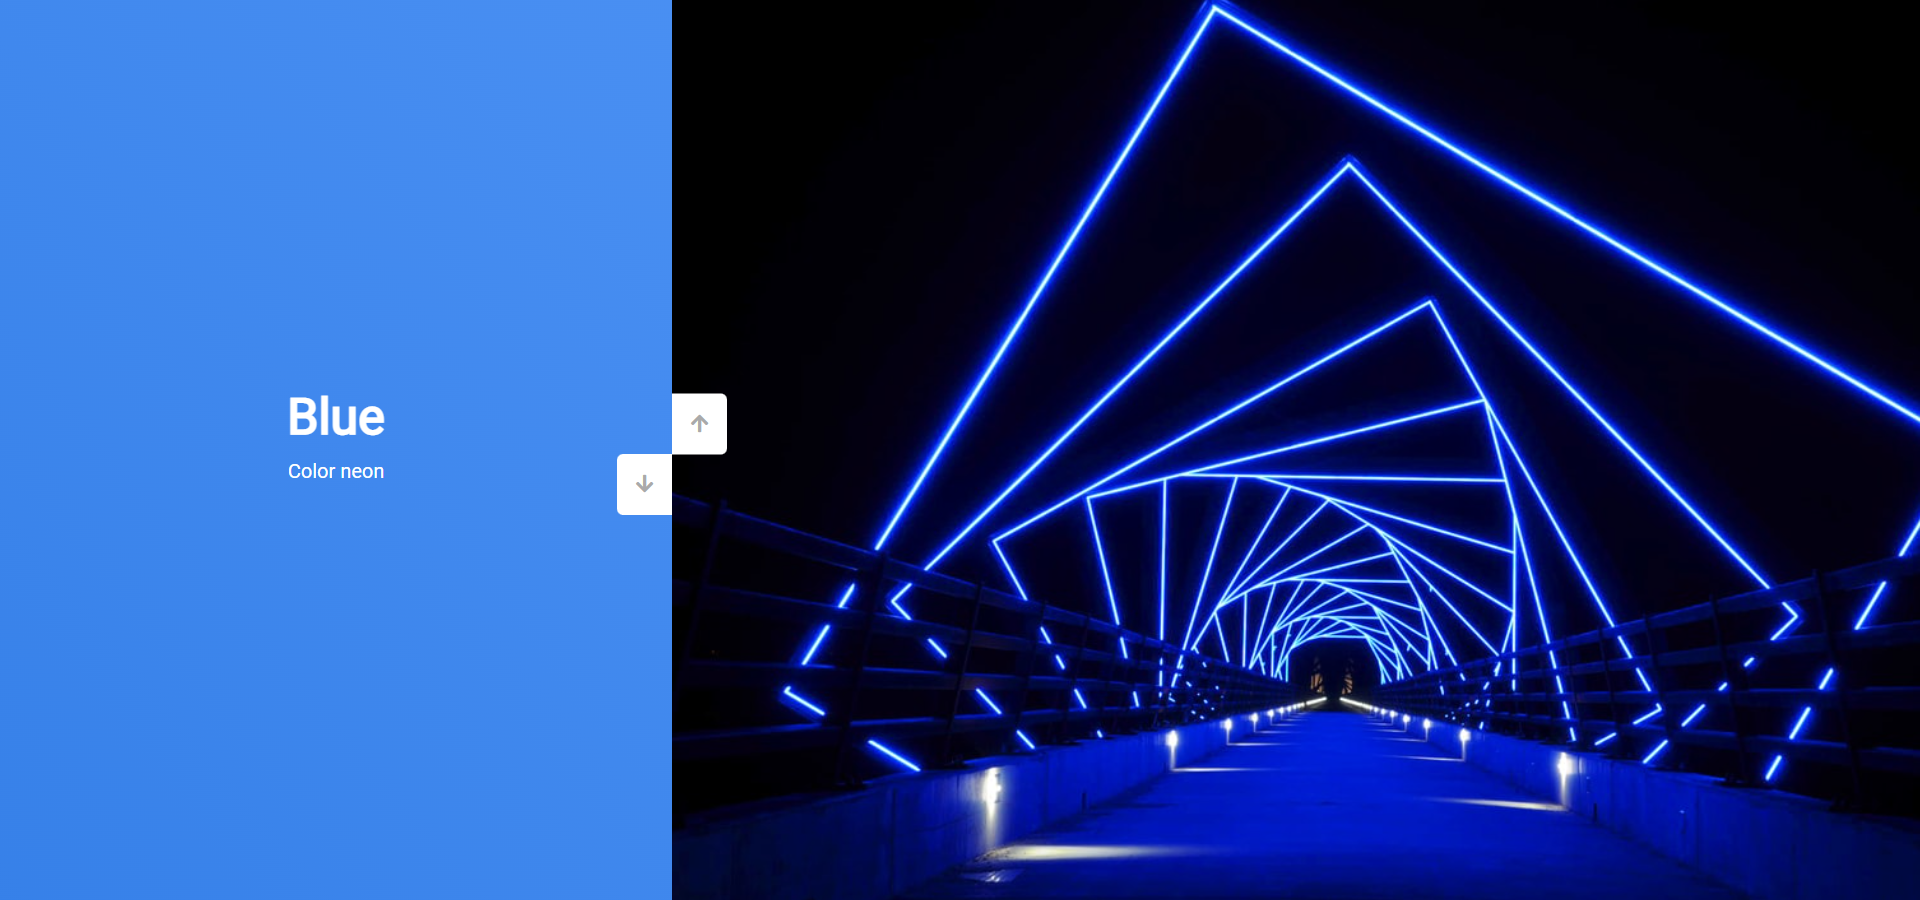
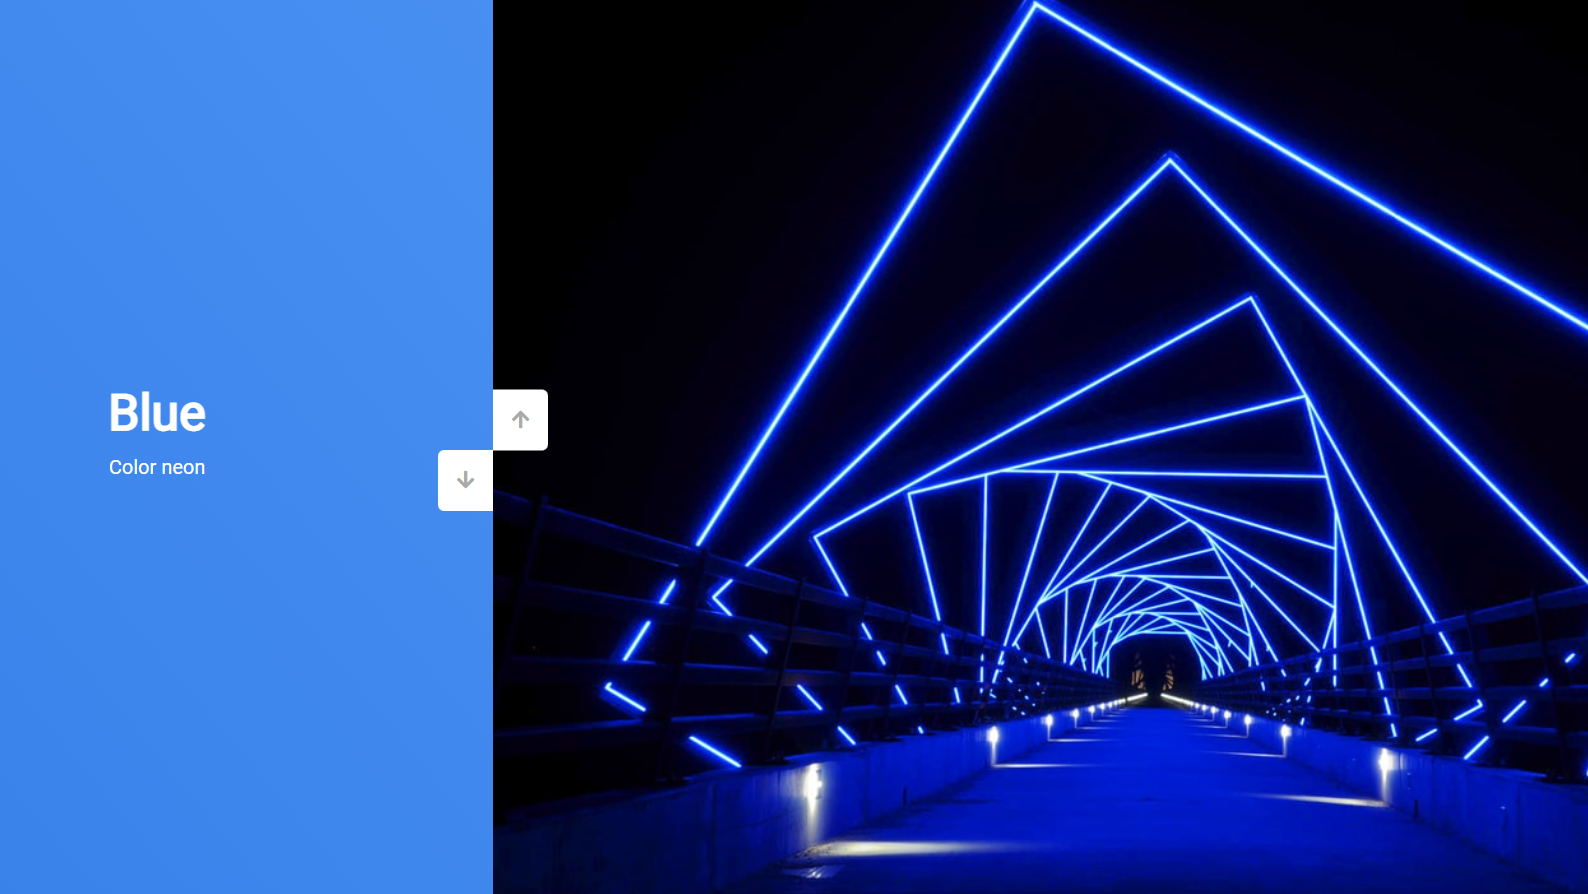
feat: change adaptive layout for projects section

diff --git a/styles/style.scss b/styles/style.scss
@@ -149,7 +149,7 @@ body._lock {
     display: flex;
     align-items: center;
     justify-content: space-between;
-    padding: 15px 0px;
+    padding: 10px 0px;
   }
 }
 .menu {
@@ -170,7 +170,6 @@ body._lock {
     line-height: 150%;
   }
 }
-
 
 /*-------------------------------------------------------------*/
 /*-----Burger--------------------------------------------------*/
@@ -506,18 +505,24 @@ body._lock {
 }
 .projects__item {
   position: relative;
+  @media (max-width: 1080) {
+    width: 100%;
+  }
 }
 
 .projects__image {
-  //flex: 1 1 33%;
-  width: 400px;
+  width: 500px;
   border-radius: 10px;
-  @media (max-width: 460px) {
-    width: 320px;
+  @media (max-width: 1080px) {
+    width: 700px;
+  }
+  @media (max-width: 768px) {
+    width: 100%;
   }
 }
 
 .projects__item a {
+  transition: 0.3s;
   &:hover {
     .projects__image {
       filter: brightness(0.6);
@@ -527,6 +532,7 @@ body._lock {
     }
   }
 }
+
 .projects__subtitle {
   font-size: 20px;
   text-align: center;

diff --git a/styles/style.css b/styles/style.css
@@ -256,7 +256,7 @@ body._lock {
   -webkit-box-pack: justify;
       -ms-flex-pack: justify;
           justify-content: space-between;
-  padding: 15px 0px;
+  padding: 10px 0px;
 }
 
 .menu__logo {
@@ -633,15 +633,32 @@ body._lock {
   position: relative;
 }
 
+@media (max-width: 1080) {
+  .projects__item {
+    width: 100%;
+  }
+}
+
 .projects__image {
-  width: 400px;
+  width: 500px;
   border-radius: 10px;
 }
 
-@media (max-width: 460px) {
+@media (max-width: 1080px) {
   .projects__image {
-    width: 320px;
+    width: 700px;
   }
+}
+
+@media (max-width: 768px) {
+  .projects__image {
+    width: 100%;
+  }
+}
+
+.projects__item a {
+  -webkit-transition: 0.3s;
+  transition: 0.3s;
 }
 
 .projects__item a:hover .projects__image {
